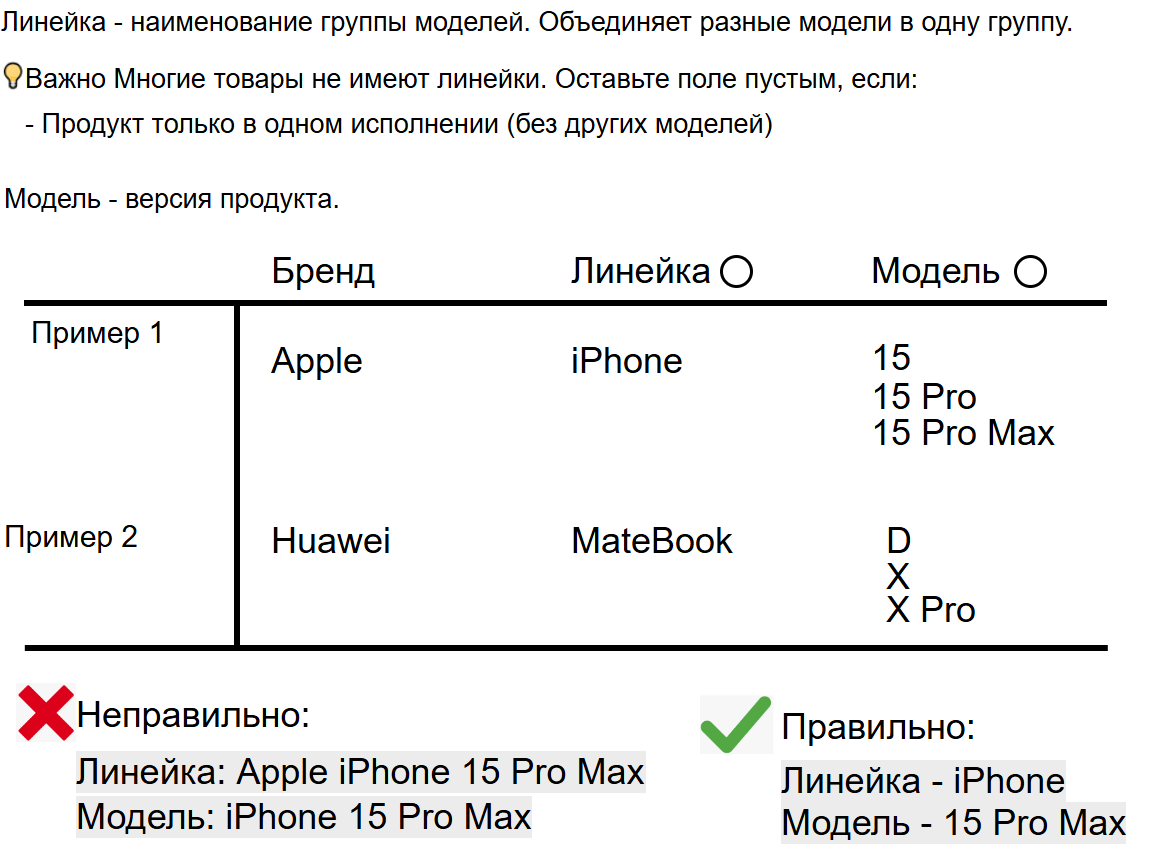
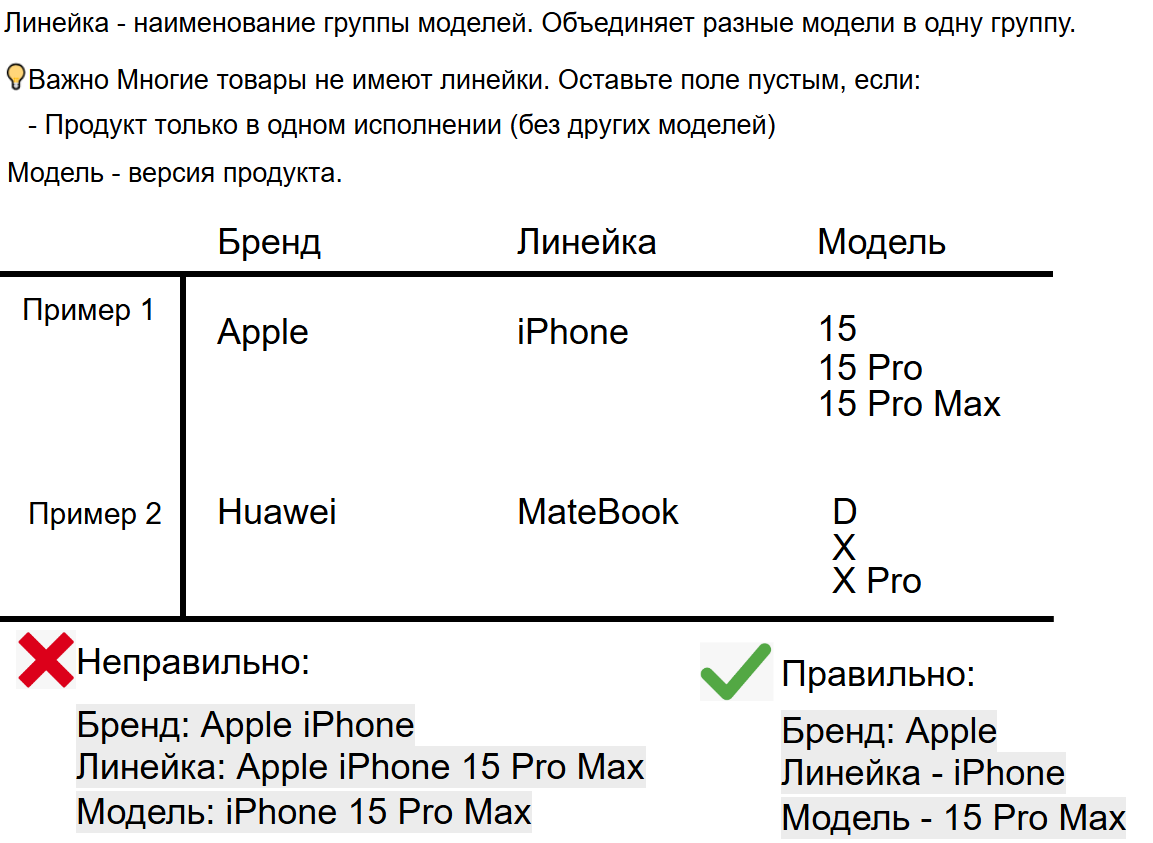
Stage 1

Changed region(s): [[0.0, 0.2776, 0.9991, 0.987], [0.0, 0.0, 0.9367, 0.2467], [0.4371, 0.586, 0.6557, 0.6477]]

diff --git a/src/pages/Home.jsx b/src/pages/Home.jsx
@@ -114,14 +114,19 @@ function Home() {
                                     Редактировать
                                 </button>
                                 {reviewApproved && (
-                                    <button
-                                        type="button"
-                                        className="home__variant-btn bottom-bar__btn"
-                                        onClick={() => navigate(`/stage12?id=${item.id}`)}
-                                    >
-                                        <span className="home__variant-btn-icon" aria-hidden>+</span>
-                                        <span>Добавить вариант параметра продукта</span>
-                                    </button>
+                                    <div className="tooltip-wrapper">
+                                        <button
+                                            type="button"
+                                            className="home__variant-btn bottom-bar__btn"
+                                            onClick={() => navigate(`/stage12?id=${item.id}`)}
+                                        >
+                                            <span className="home__variant-btn-icon" aria-hidden>+</span>
+                                            <span>Добавить вариант параметра продукта</span>
+                                        </button>
+                                        <span className="tooltip-text">
+                                            Вариант параметра продукта — это характеристики, по которым покупатель может выбрать один из нескольких вариантов внутри одной карточки продукта.
+                                        </span>
+                                    </div>
                                 )}
                                 <button className="bottom-bar__btn" onClick={() => handleDelete(item.id)}>
                                     Удалить

diff --git a/src/pages/Stage5.jsx b/src/pages/Stage5.jsx
@@ -221,9 +221,25 @@ function Stage5() {
                                 .filter((field) => group.name !== 'Габариты' || !DIMENSION_CODES.includes(field.code))
                                 .map((field) => (
                                     <div key={field.code}>
+                                       
+
                                         {group.name === 'Основные' && field.code === 'model' && (
                                             <>
                                                 <img alt="Линейка и бренд" class="oneimg" src="/images/one.png"></img>
+                                                {group.name === 'Основные' && field.code === 'model' && (() => {
+                                                    const brandField = kind?.characteristics?.find((f) => f.code === 'brand');
+                                                    if (!brandField) return null;
+                                                    return (
+                                                        <>
+                                                            <CharacteristicRow
+                                                                field={brandField}
+                                                                value={specs['brand']}
+                                                                unitGroups={catalog?.unitGroups}
+                                                                onChange={(patch) => updateSpec('brand', patch)}
+                                                            />
+                                                        </>
+                                                    );
+                                                })()}
 
                                                 <div className="field-row product-line-row">
                                                     <span className="info-icon" title="Подсказка">ⓘ</span>

diff --git a/src/pages/Home.css b/src/pages/Home.css
@@ -166,3 +166,48 @@
     font-size: 16px;
     padding: 8px 16px;
 }
+
+.tooltip-wrapper {
+    position: relative;
+    display: inline-block;
+}
+
+.tooltip-text {
+    visibility: hidden;
+    opacity: 0;
+    width: 280px;
+    background-color: #333;
+    color: #fff;
+    text-align: left;
+    border-radius: 6px;
+    padding: 10px 12px;
+    position: absolute;
+    z-index: 100;
+    bottom: 125%;
+    /* над кнопкой */
+    left: 50%;
+    transform: translateX(-50%);
+    transition: opacity 0.2s ease, visibility 0.2s ease;
+    font-size: 13px;
+    line-height: 1.4;
+    font-weight: normal;
+    box-shadow: 0 4px 12px rgba(0, 0, 0, 0.25);
+    pointer-events: none;
+    white-space: normal;
+}
+
+.tooltip-text::after {
+    content: "";
+    position: absolute;
+    top: 100%;
+    left: 50%;
+    margin-left: -6px;
+    border-width: 6px;
+    border-style: solid;
+    border-color: #333 transparent transparent transparent;
+}
+
+.tooltip-wrapper:hover .tooltip-text {
+    visibility: visible;
+    opacity: 1;
+}
